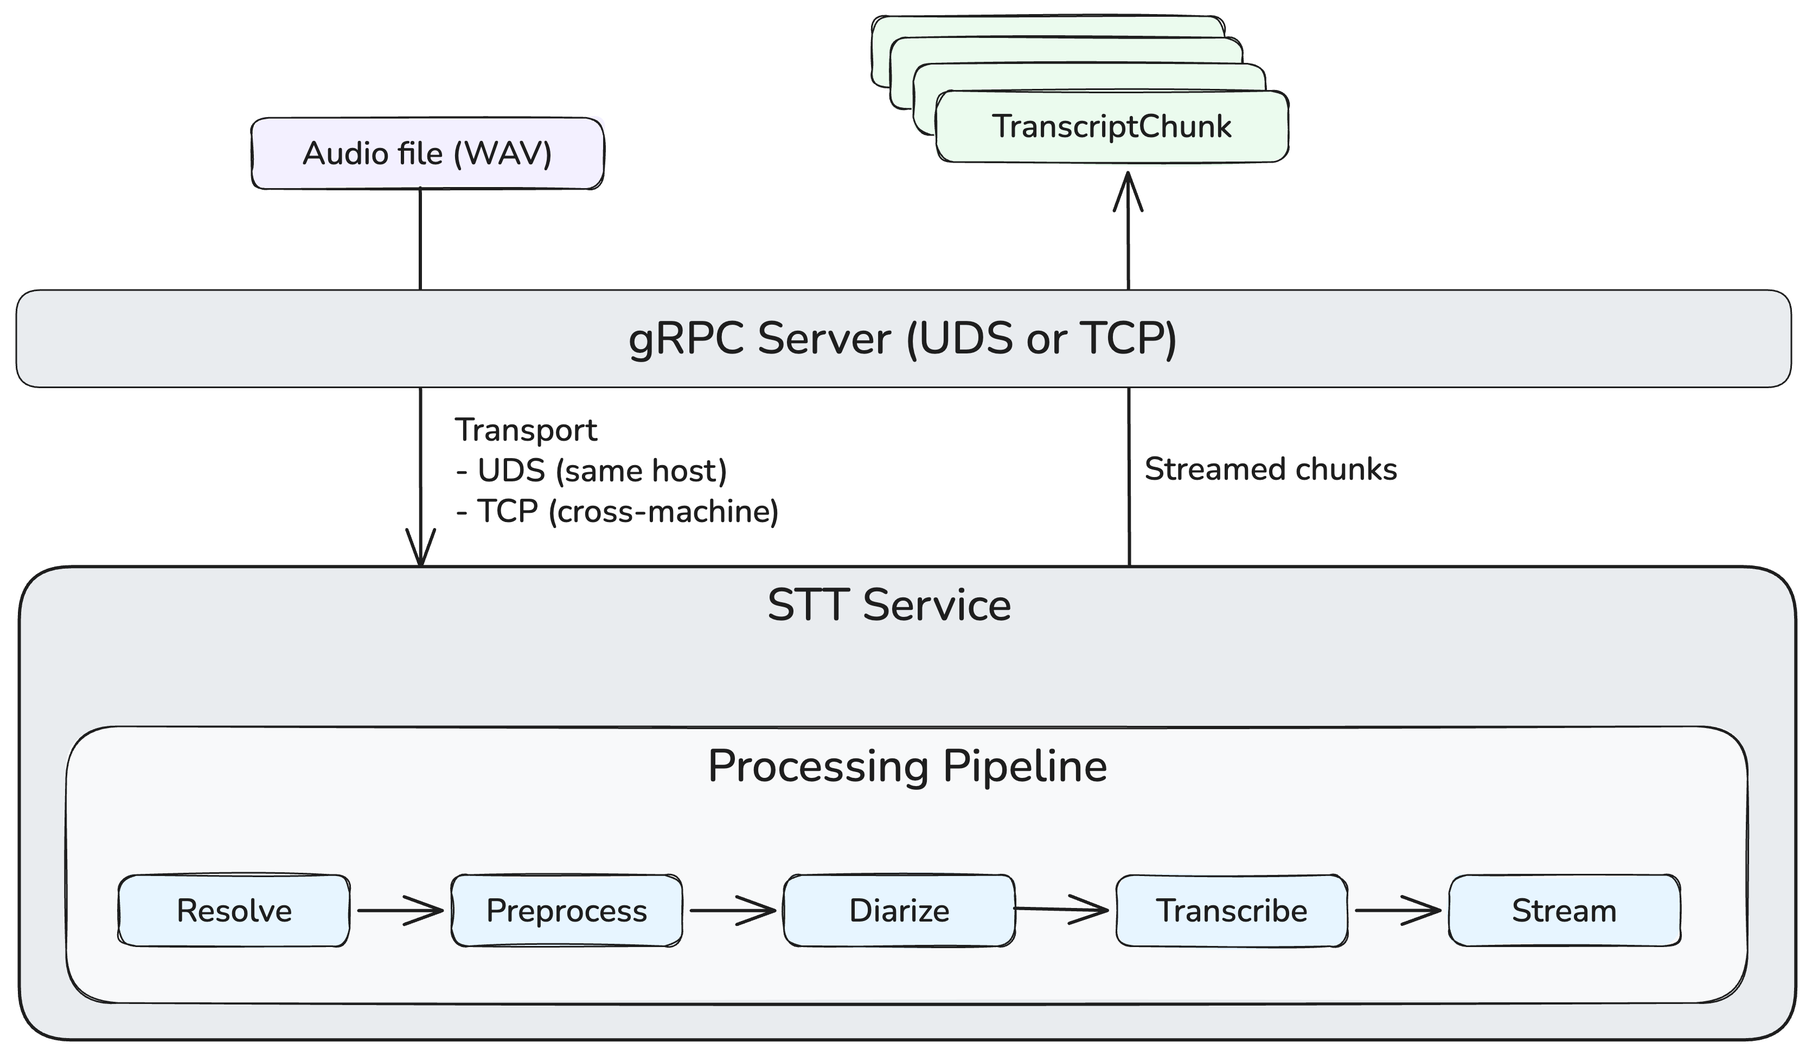
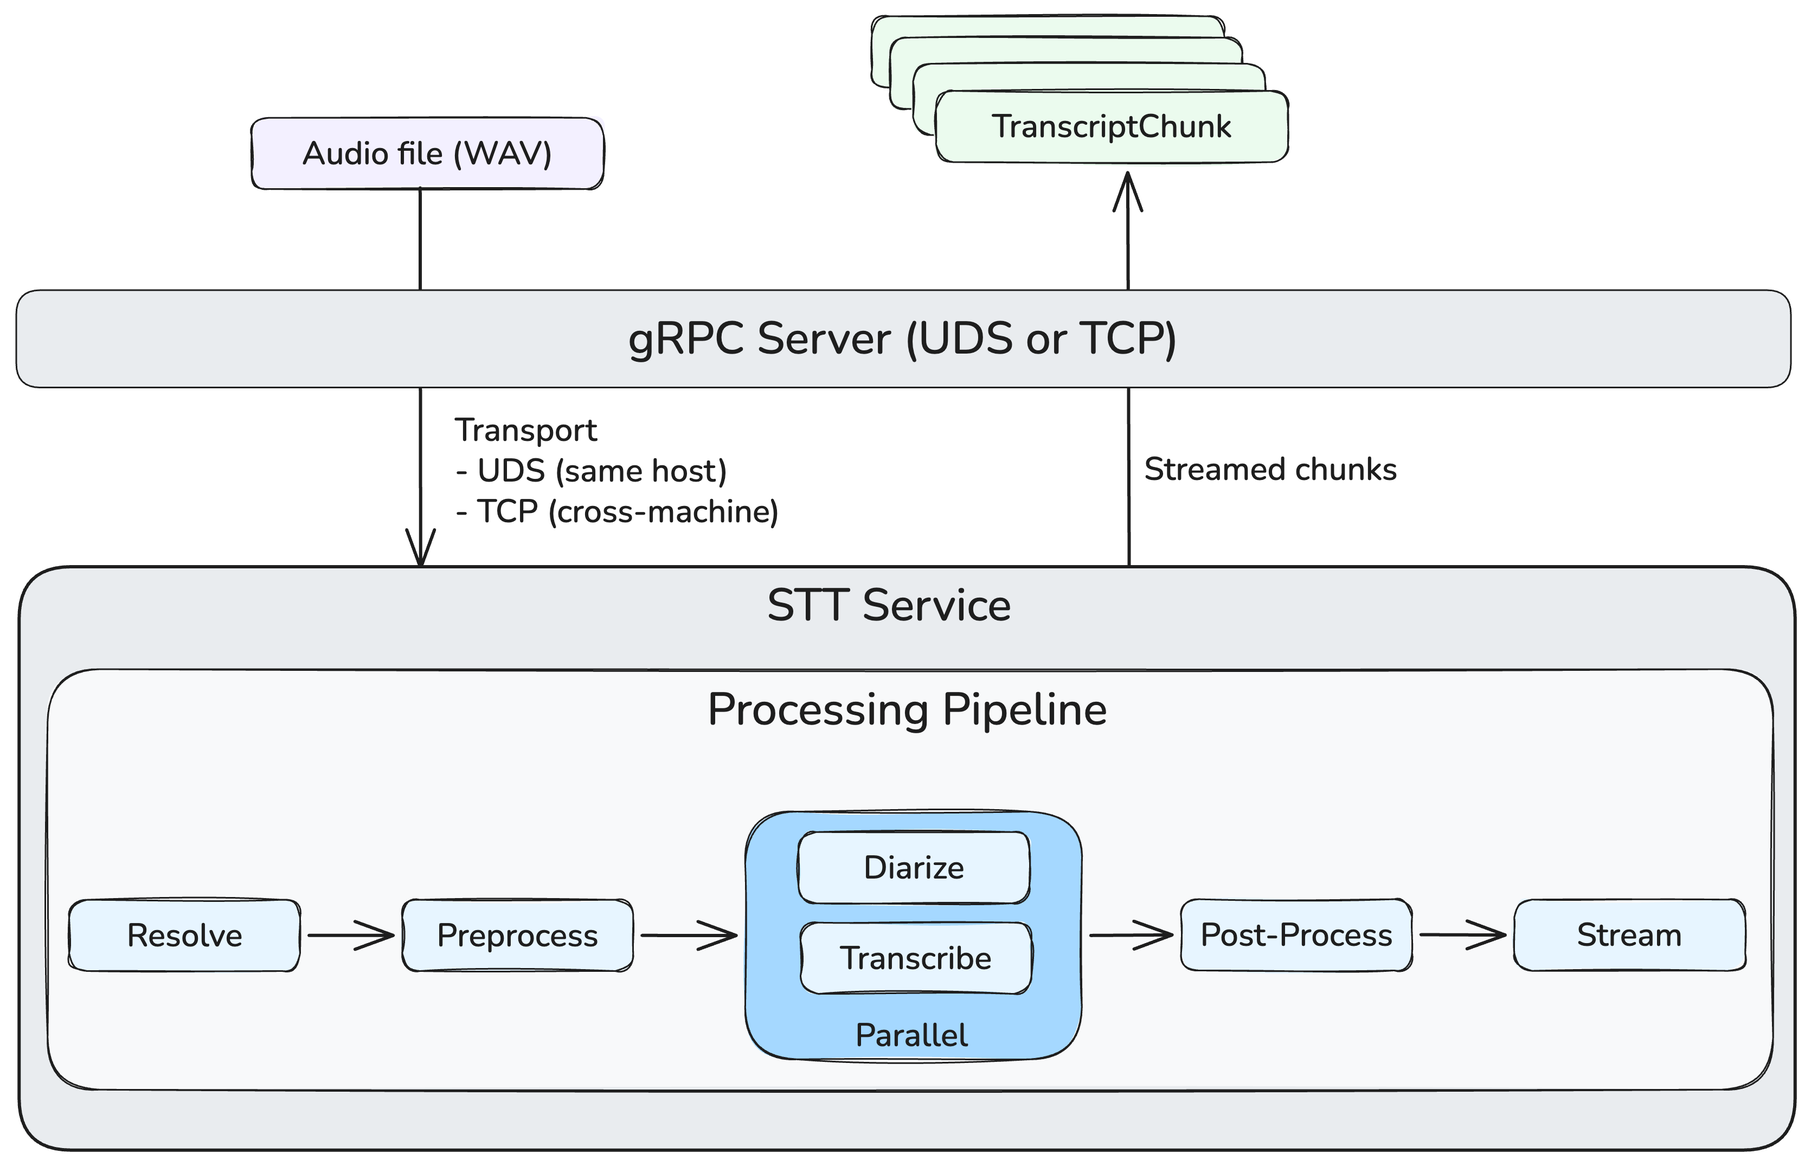
docs: update documentation

diff --git a/services/stt/local/servicer.py b/services/stt/local/servicer.py
@@ -117,11 +117,6 @@ class WhisperServicer(speech_pb2_grpc.SpeechToTextServicer):
         """Return the requested speaker count from request options."""
         return options.num_speakers if options.HasField("num_speakers") else 0
 
-        # ------------------------------------------------------------------
-
-    # Helpers: segment normalisation
-    # ------------------------------------------------------------------
-
     @staticmethod
     def _whisper_segments_to_dicts(segments) -> list[dict[str, Any]]:
         """
@@ -185,8 +180,6 @@ class WhisperServicer(speech_pb2_grpc.SpeechToTextServicer):
             ],
         )
 
-        # ----------------------------------------------------------------------
-
     def Transcribe(self, request, context):
         """
         Stream a transcription response for the provided audio request.
@@ -211,7 +204,7 @@ class WhisperServicer(speech_pb2_grpc.SpeechToTextServicer):
             context.abort(grpc.StatusCode.INVALID_ARGUMENT, str(exc))
             return
 
-            # ── Diarization flags ─────────────────────────
+        # ── Diarization flags ─────────────────────────
         diarize = request.options.diarization
 
         if diarize:
@@ -251,7 +244,7 @@ class WhisperServicer(speech_pb2_grpc.SpeechToTextServicer):
                             return
                         diarize = False
 
-                        # ── Preprocess ────────────────────────────────
+        # ── Preprocess ────────────────────────────────
         try:
             whisper_input, diar_input = self._preprocessor.prepare(
                 audio,
@@ -261,7 +254,7 @@ class WhisperServicer(speech_pb2_grpc.SpeechToTextServicer):
             context.abort(grpc.StatusCode.INVALID_ARGUMENT, str(exc))
             return
 
-            # ── Phase 1: Diarization (run in parallel with Whisper) ───
+        # ── Phase 1: Diarization (run in parallel with Whisper) ───
         diar_future: Future | None = None
         if diarize and diar_input is not None and self.diarizer is not None:
             num_speakers = self._get_num_speakers(request.options)
@@ -272,7 +265,7 @@ class WhisperServicer(speech_pb2_grpc.SpeechToTextServicer):
                 max_speakers=num_speakers,
             )
 
-            # ── Phase 2: Whisper ──────────────────────────
+        # ── Phase 2: Whisper ──────────────────────────
         try:
             segments_iter, info = self.model.transcribe(
                 whisper_input,
@@ -296,7 +289,7 @@ class WhisperServicer(speech_pb2_grpc.SpeechToTextServicer):
             context.abort(grpc.StatusCode.INTERNAL, "Transcription failed")
             return
 
-            # ── Collect all Whisper segments ──────────────
+        # ── Collect all Whisper segments ──────────────
         try:
             seg_dicts = self._whisper_segments_to_dicts(segments_iter)
         except _INFERENCE_ERRORS:
@@ -306,7 +299,7 @@ class WhisperServicer(speech_pb2_grpc.SpeechToTextServicer):
             context.abort(grpc.StatusCode.INTERNAL, "Transcription failed")
             return
 
-            # ── Phase 3: Resolve diarization future ──────
+        # ── Phase 3: Resolve diarization future ──────
         diarization = None
         if diar_future is not None:
             try:
@@ -321,11 +314,11 @@ class WhisperServicer(speech_pb2_grpc.SpeechToTextServicer):
                     return
                 diarization = None
 
-                # ── Phase 4: Apply diarization labels ────────
+        # ── Phase 4: Apply diarization labels ────────
         if diarization is not None:
             diarization.assign_speakers(seg_dicts)
 
-            # ── Phase 5: Post-processing ─────────────────
+        # ── Phase 5: Post-processing ─────────────────
         if self._postprocessor:
             seg_dicts = self._postprocessor.process_segments(
                 seg_dicts,
@@ -333,7 +326,7 @@ class WhisperServicer(speech_pb2_grpc.SpeechToTextServicer):
                 stitch=True,
             )
 
-            # ── Phase 6: Stream results ──────────────────
+        # ── Phase 6: Stream results ──────────────────
         try:
             for seg in seg_dicts:
                 yield self._seg_to_chunk(seg)

diff --git a/docs/content/technical/data-model.md b/docs/content/technical/data-model.md
@@ -3,8 +3,9 @@
 ## Overview
 
 This document describes the MongoDB data model for an earnings call analytics platform. The system ingests audio
-recordings of public company earnings calls, transcribes them, identifies speakers through diarization, generates vector
-embeddings, and exposes the content through text search, semantic search, and reranked hybrid retrieval.
+recordings of public company earnings calls, transcribes them, optionally identifies speakers through diarization,
+generates vector embeddings, and exposes the content through text search, semantic search, and reranked hybrid
+retrieval.
 
 The model uses **two collections**:
 
@@ -19,12 +20,18 @@ This separation allows chunking strategies and embedding models to evolve indepe
 Audio File
   │
   ▼
-Transcription (Whisper)
+Resolve + Preprocess
   │
-  ▼
-Diarization (Speaker Attribution)
-  │
-  ▼
+  ├───────────────┐
+  ▼               ▼
+Transcription     Diarization (optional, parallel)
+(Whisper)         (Speaker Attribution)
+  │               │
+  └───────┬───────┘
+          ▼
+Post-processing (speaker assignment, stitching, normalization)
+          │
+          ▼
 ┌──────────────────────┐
 │   earnings_calls     │  ← Source of truth. No embeddings.
 │   (one doc per call) │
@@ -42,21 +49,21 @@ Diarization (Speaker Attribution)
 
 ## Design Principles
 
-| Principle                              | Rationale                                                                |
-|----------------------------------------|--------------------------------------------------------------------------|
-| Separate source from derived chunks    | Re-chunk and re-embed without touching the original transcript           |
-| Chunk at the dialogue turn level       | A speaker's contiguous utterance is the natural semantic boundary        |
-| Collocate embeddings with text         | Eliminates cross-collection joins during vector search                   |
-| Denormalize filter fields onto chunks  | Vector and text search stages can filter without `$lookup`               |
-| Track model lineage                    | Enables incremental re-embedding when models are upgraded                |
-| Store diarization alongside transcript | Speaker attribution is part of the source record, not a derived artifact |
+| Principle                             | Rationale                                                               |
+|---------------------------------------|-------------------------------------------------------------------------|
+| Separate source from derived chunks   | Re-chunk and re-embed without touching the original transcript          |
+| Chunk at the dialogue turn level      | A speaker's contiguous utterance is the natural semantic boundary       |
+| Collocate embeddings with text        | Eliminates cross-collection joins during vector search                  |
+| Denormalize filter fields onto chunks | Vector and text search stages can filter without `$lookup`              |
+| Track model lineage                   | Enables incremental re-embedding when models are upgraded               |
+| Store speaker attribution in source   | Speaker labels are part of the canonical transcript, not a derived view |
 
 ## Collection: `earnings_calls`
 
 ### Purpose
 
-Stores one document per earnings call. Acts as the filtering entry point and the authoritative record of the transcript
-and speaker attribution. Contains **no embeddings**.
+Stores one document per earnings call. Acts as the authoritative record of the transcript and speaker attribution.
+Contains **no embeddings**.
 
 ### Schema
 
@@ -94,20 +101,6 @@ and speaker attribution. Contains **no embeddings**.
       "name": "Conference Operator",
       "title": null,
       "firm": null
-    },
-    {
-      "speaker_id": "Speaker 1",
-      "role": "executive",
-      "name": "Dev Ittycheria",
-      "title": "CEO",
-      "firm": "MongoDB"
-    },
-    {
-      "speaker_id": "Speaker 2",
-      "role": "analyst",
-      "name": "Raimo Lenschow",
-      "title": null,
-      "firm": "Barclays"
     }
   ],
   "transcript": {
@@ -187,52 +180,49 @@ db.earnings_calls.createIndex({status: 1, updated_at: -1})
 
 ## Diarization
 
-Speaker diarization assigns a speaker label to each time segment of the audio. The diarization model produces unlabeled
+Speaker diarization assigns a speaker label to each time span of the audio. The diarization model produces unlabeled
 clusters (`Speaker 0`, `Speaker 1`, …). It knows *when* speakers change but not *who* they are.
 
 ### How It Fits in the Pipeline
 
-Diarization does not persist a standalone `diarization.segments` structure. Instead, its output is directly materialized
-into:
+Diarization is an **optional, independent inference pass** that runs in parallel with transcription when enabled.
 
-- `transcript.segments[].speaker_id` (time-aligned speaker attribution)
+Its output is not stored as a standalone structure. Instead, it is materialized directly into:
+
+- `transcript.segments[].speaker_id`
 - `speakers` (speaker registry and metadata)
 
-These are aligned by timestamp overlap to produce the final transcript segments, where each segment carries both `text`
-and a `speaker_id`.
+Speaker labels are assigned by **temporal overlap** between diarization turns and transcription segments (and words,
+when available).
+
+If diarization is disabled or unavailable, transcripts are stored without speaker labels.
 
 ### Speaker Resolution
 
-The `speakers` array maps raw diarization labels to identities. Resolution can be:
-
-- **Manual**: an operator assigns names after reviewing the transcript
-- **Heuristic**: pattern matching on introductions ("This is Dev Ittycheria, CEO of MongoDB")
-- **Automated**: speaker identification models (future)
-
-Until resolved, speakers remain as `Speaker 0`, `Speaker 1`, etc. with `role: "unknown"` and null identity fields. The
-pipeline does not block on resolution, chunking and embedding proceed with whatever speaker state exists.
+*(unchanged — still accurate)*
 
 ### What Gets Stored
 
-Diarization does not produce a separate data structure. Its output is folded into two existing fields on
+Diarization does not produce a separate persisted artifact. Its output is folded into existing fields on
 `earnings_calls`:
 
-| Field                              | Purpose                                                                                                           |
-|------------------------------------|-------------------------------------------------------------------------------------------------------------------|
-| `speakers`                         | Resolved registry. Maps each `speaker_id` to a name, role, title, and firm. Editable when corrections are needed. |
-| `transcript.segments[].speaker_id` | The join point. Each text segment references a speaker from the registry.                                         |
+| Field                              | Purpose                                |
+|------------------------------------|----------------------------------------|
+| `speakers`                         | Speaker registry and resolved metadata |
+| `transcript.segments[].speaker_id` | Time-aligned speaker attribution       |
 
 The diarization model identifier is recorded in `model_versions.diarization` for lineage tracking.
 
-If the diarization model is upgraded, speaker alignment is recomputed, `transcript.segments` is updated, and the
-`speakers` registry may need re-resolution depending on whether cluster assignments shifted.
+If the diarization model is upgraded, speaker alignment can be recomputed without re-running transcription.
 
 ## Collection: `earnings_chunks`
 
 ### Purpose
 
 Stores one document per dialogue turn. This is the primary collection for Atlas Vector Search, Atlas Search, and hybrid
-retrieval. Embeddings are collocated with the text they represent.
+retrieval.
+
+Chunks are derived from **post-processed, speaker-attributed transcript turns**.
 
 ### Schema
 
@@ -536,21 +526,24 @@ reclassifications are rare and can be handled by a batch update script.
 
 ## Lifecycle States
 
-The `earnings_calls.status` field tracks pipeline progress:
+The `earnings_calls.status` field tracks high-level pipeline progress:
 
 ```text
-ingested → transcribed → diarized → chunked → processed
-                                             ↘ failed
+ingested → transcribed → processed
+                      ↘ failed
 ```
 
-| Status        | Meaning                                                                                            |
-|---------------|----------------------------------------------------------------------------------------------------|
-| `ingested`    | Audio file received and stored                                                                     |
-| `transcribed` | Whisper transcription complete; `transcript.segments` populated                                    |
-| `diarized`    | Speaker diarization complete; `speakers` populated and `transcript.segments[].speaker_id` assigned |
-| `chunked`     | Dialogue turns extracted; `earnings_chunks` documents created                                      |
-| `processed`   | Embeddings generated and written to chunks                                                         |
-| `failed`      | An error occurred; check logs for the failed stage                                                 |
+Diarization, chunking, and embedding occur as part of processing and may be
+enabled or disabled via configuration. Intermediate states are not required
+for correctness and may be omitted in deployments that favor a simpler state
+model.
+
+| Status        | Meaning                                                             |
+|---------------|---------------------------------------------------------------------|
+| `ingested`    | Audio file received and stored                                      |
+| `transcribed` | Transcription complete; raw segments available                      |
+| `processed`   | Speaker attribution (if enabled), chunking, and embeddings complete |
+| `failed`      | An error occurred; check logs for details                           |
 
 ## Context Window Design
 

diff --git a/docs/content/technical/architecture.md b/docs/content/technical/architecture.md
@@ -3,50 +3,80 @@
 Vetta is designed around two core principles: **decoupled inference** and **strict separation between logic and
 presentation**.
 
-The speech-to-text engine is abstracted behind a trait. The orchestration pipeline doesn't know or care which model,
-runtime, or language powers transcription. Swapping from a local Whisper instance to a remote API is a configuration
-change, not a rewrite.
+Speech-to-text is exposed as a **streaming gRPC service** with a well-defined protobuf interface. The orchestration
+pipeline coordinates audio resolution, optional diarization, transcription, and post‑processing, but remains **agnostic
+to downstream consumers**.
 
-The core library never produces user-facing output. It emits structured events that consumers render however they
-choose.
+The core library never produces user-facing output. It emits **structured transcript chunks and events** that
+consumers (CLI, APIs, indexers) render or store however they choose.
 
 ## System Overview
 
 ```mermaid
 graph LR
     CLI --> CORE["Vetta Core"]
-    CORE --> STT["STT Service"]
+    CORE --> STT["Speech-to-Text gRPC Service"]
     CORE --> DB["Data Store"]
 ```
+
+## Speech-to-Text Pipeline
+
+The STT service implements a **streaming transcription pipeline**:
+
+1. Audio resolution and validation (URL, upload, or inline audio)
+2. Audio preprocessing for inference
+3. Optional speaker diarization (lazy-loaded, configuration-driven)
+4. Whisper transcription (word-level timestamps supported)
+5. Speaker label assignment (segment- and word-level)
+6. Post-processing (stitching, entity correction, punctuation, truecasing)
+7. Streaming transcript chunks to the caller
+
+The service streams `TranscriptChunk` messages incrementally, enabling:
+
+- Real-time progress
+- Bounded memory usage
+- Early indexing or consumption
+
+Diarization and post-processing are **optional** and can be enabled or disabled via configuration without changing the
+pipeline.
 
 ## Storage
 
 Two collections with distinct responsibilities:
 
-- **`earnings_calls`** — One document per call. Immutable source of truth. Full transcript, speaker registry, ingestion
-  metadata. No embeddings.
-- **`earnings_chunks`** — One document per dialogue turn. Search-optimized. Text, embeddings, and denormalized metadata
-  for filtering.
+- **`earnings_calls`** — One document per call. Immutable source of truth.
+    - Full transcript (speaker-labeled, post-processed)
+    - Speaker registry
+    - Ingestion and processing metadata
+    - No embeddings
 
-This separation lets chunking strategies and embedding models evolve independently. Reprocessing chunks never touches
-source transcripts. See [Data Model](/technical/data-model) for schemas, field references, and indexes.
+- **`earnings_chunks`** — One document per dialogue turn.
+    - Search-optimized text
+    - Embeddings
+    - Denormalized metadata for filtering (speaker, call ID, timestamps)
+
+This separation allows chunking strategies, embedding models, and reprocessing logic to evolve independently.
+Reprocessing chunks never mutates source transcripts.
+
+See [Data Model](/technical/data-model) for schemas, field references, and indexes.
 
 ## Search
 
 `earnings_chunks` supports three retrieval modes:
 
-- **Semantic** — Atlas Vector Search over embeddings with metadata pre-filtering.
-- **Full-text** — Atlas Search with `lucene.english` analyzer.
-- **Hybrid** — Candidates from both paths merged and reranked application-side.
+- **Semantic** — Atlas Vector Search over embeddings with metadata pre-filtering
+- **Full-text** — Atlas Search using a language analyzer
+- **Hybrid** — Candidates from both paths merged and reranked application-side
 
 ## Key Decisions
 
-| Decision                  | Rationale                                                                                                 |
-|---------------------------|-----------------------------------------------------------------------------------------------------------|
-| Trait-based STT           | Pipeline is independent of any model or runtime. Strategies swap without touching orchestration.          |
-| Streaming transcription   | Segments yield as recognized. Real-time progress, bounded memory.                                         |
-| Event-driven progress     | Core emits structured events. Any consumer renders them.                                                  |
-| Contextual errors         | Errors carry diagnostic codes and actionable help. Failures are understandable without reading source.    |
-| Two-collection model      | Source transcripts and search chunks are separated so embedding and chunking can evolve independently.    |
-| Denormalized filters      | Metadata lives on chunks so search can filter without cross-collection joins.                             |
-| Context windows on chunks | Each chunk stores neighboring turns, giving rerankers and LLMs surrounding context without extra queries. |
+| Decision                   | Rationale                                                                                                |
+|----------------------------|----------------------------------------------------------------------------------------------------------|
+| gRPC-based STT service     | Clear contract, streaming support, language-agnostic clients                                             |
+| Streaming transcription    | Segments yield as recognized; enables progress reporting and early consumption                           |
+| Optional diarization       | Speaker labeling when available, graceful degradation when not                                           |
+| Post-processing pipeline   | Improves readability and normalization without affecting raw timing data                                 |
+| Event / chunk-based output | Core emits structured data; presentation is handled by consumers                                         |
+| Two-collection model       | Source transcripts and search chunks are separated so embeddings and chunking can evolve independently   |
+| Denormalized filters       | Metadata lives on chunks so search can filter without cross-collection joins                             |
+| Context windows on chunks  | Each chunk stores neighboring turns, giving rerankers and LLMs surrounding context without extra queries |
